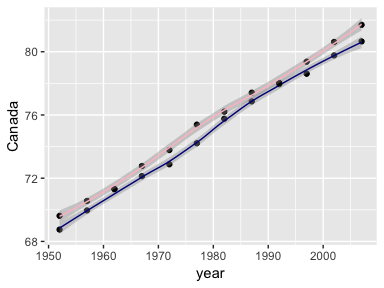
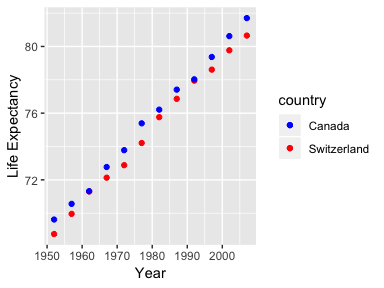
Added homework 4, modified small things

diff --git a/assignment04-figalit.md b/assignment04-figalit.md
@@ -6,7 +6,6 @@ Figali Taho
 -   [Tidy data and joins!](#tidy-data-and-joins)
     -   [Data Reshaping Prompt](#data-reshaping-prompt)
     -   [Join Prompt (join, merge, look up)](#join-prompt-join-merge-look-up)
-    -   [Resources](#resources)
 
 Tidy data and joins!
 --------------------
@@ -47,7 +46,7 @@ knitr::kable(lifeExpPerYear_CanadaVsSwiss)
 |  2002|  79.770|       80.620|
 |  2007|  80.653|       81.701|
 
-\[x\] Take advantage of this new data shape to scatterplot life expectancy for one country against that of another. To plot the data for each country separately, we would do something on these terms, for example, for Canada:
+\[x\] Take advantage of this new data shape to scatterplot life expectancy for one country against that of another. To scatterplot the data for Canada for example, we would do something on these terms:
 
 ``` r
 ggplot(lifeExpPerYear_CanadaVsSwiss, aes(x=year, y=Canada)) +
@@ -62,19 +61,19 @@ ggplot(lifeExpPerYear_CanadaVsSwiss, aes(x=year, y=Canada)) +
 The advantage of this approach lies in the fact that now we have the data in a readily and easily servable state for comparison with one another, and we can "combine" the two plots together to better see the underlying trends.
 
 ``` r
-ggplot() +
-  geom_point(data=lifeExpPerYear_CanadaVsSwiss, aes(year, Canada)) + 
-  geom_smooth(data=lifeExpPerYear_CanadaVsSwiss, aes(year, Canada), 
-              colour="darkblue", size=0.5) + 
-  geom_point(data=lifeExpPerYear_CanadaVsSwiss, aes(year, Switzerland)) + 
-  geom_smooth(data=lifeExpPerYear_CanadaVsSwiss, aes(year, Switzerland), 
-              colour="pink", size=0.5)
+ggplot(lifeExpPerYear_CanadaVsSwiss, aes(year)) +
+  geom_point(aes(y=Canada, color='red')) +
+  geom_point(aes(y=Switzerland, color='blue')) + 
+  labs(x = "Year") + 
+  labs(y = "Life Expectancy") +
+  scale_colour_manual(name = 'country',
+                      values =c('red'='red','blue'='blue'), 
+                      labels = c('Canada','Switzerland'))
 ```
 
-    ## `geom_smooth()` using method = 'loess' and formula 'y ~ x'
-    ## `geom_smooth()` using method = 'loess' and formula 'y ~ x'
+![](assignment04-figalit_files/figure-markdown_github/unnamed-chunk-4-1.png)
 
-![](assignment04-figalit_files/figure-markdown_github/unnamed-chunk-4-1.png) In this case, it's very easily and clearly visible that Switzerland has a higher life expectancy than Canada over the years.
+In this case, it's very easily and clearly visible that Switzerland has a higher life expectancy than Canada over the years.
 
 ### Join Prompt (join, merge, look up)
 
@@ -244,7 +243,3 @@ knitr::kable(head(full_join(gapminder, oceaniaExtraInfo, by = "continent")))
 | Afghanistan | Asia      |  1977|   38.438|  14880372|   786.1134|           NA| NA         |
 
 Thanks for reading my homework! Enjoy your day :smile:
-
-### Resources
-
-Links I found useful: - <https://jules32.github.io/2016-07-12-Oxford/dplyr_tidyr/#3_tidyr_overview> - <https://stackoverflow.com/questions/21192002/how-to-combine-2-plots-ggplot-into-one-plot>
